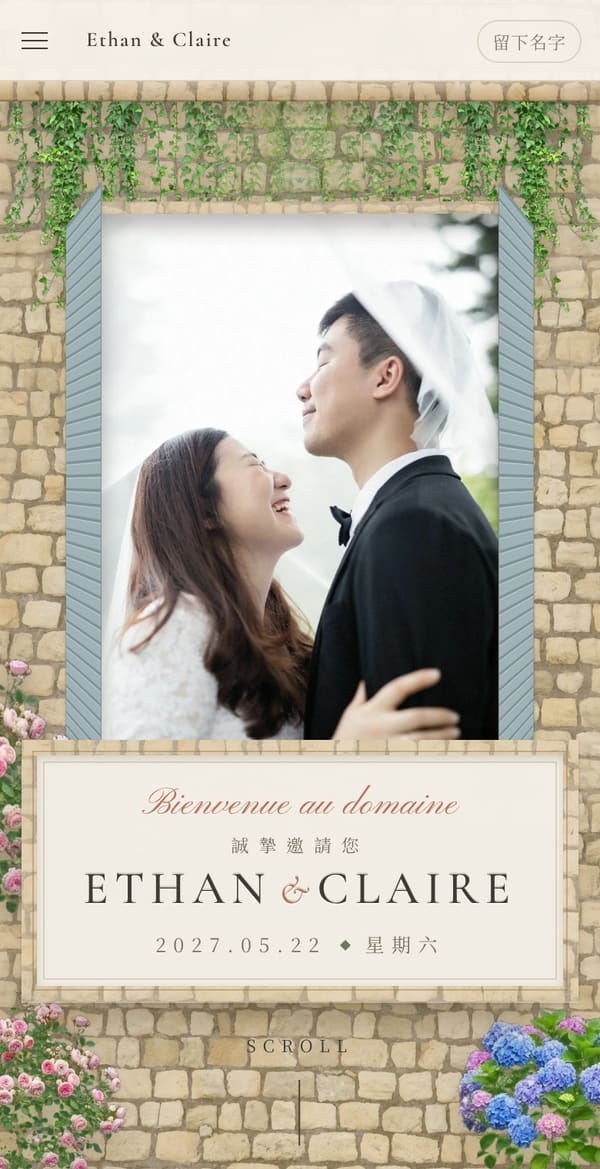
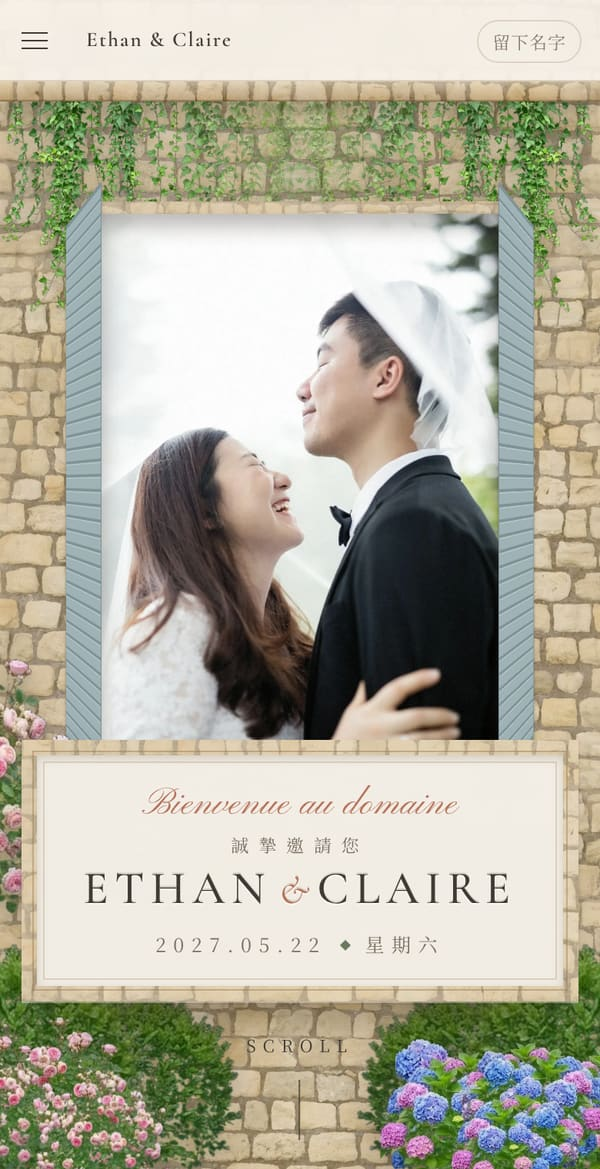
法式莊園 hero：濃密的玫瑰與繡球花叢、兩側綠籬、真的赤陶花箱，兩側窗都關上
- 玫瑰、繡球花改成幾株疊成一大叢（rose-clump、hydrangea-clump），底下墊黃楊的葉子
- 牆腳兩側加黃楊綠籬（shrub.webp），在花的後面
- 窗台下的花箱改用真的赤陶花箱照片去背（planter.webp），大廳所有窗都套用
- 右邊那扇窗的百葉窗也關上
- README 素材表同步

Claude-Session: https://claude.ai/code/session_01WAMHDvEXzDVD9sEfoDVAdb

Changed region(s): [[0.6, 0.8007, 1.0, 1.0], [0.0, 0.8007, 0.39, 1.0]]

diff --git a/public/css/lobby-manor.css b/public/css/lobby-manor.css
@@ -92,9 +92,14 @@ body[data-lobby="french-manor"] .bg-decor::after{content:'';position:absolute;in
 /* 牆腳的花（去背的真花），捲動時走得比牆快 */
 .fm-near{position:absolute;bottom:0;background:center bottom/contain no-repeat;
   filter:drop-shadow(0 10px 14px rgba(60,46,30,.28));transform:translateY(calc(var(--lp,0) * -36%));}
-.fm-near.n-hydrangea{right:-3%;height:36%;aspect-ratio:311/281;bottom:-3%;background-image:url(../img/manor/hydrangea-bush.webp);}
-.fm-near.n-rose{left:-3%;height:42%;aspect-ratio:365/396;bottom:-3%;background-image:url(../img/manor/rose-bush.webp);}
-.fm-near.n-lavender{left:clamp(90px,15vw,240px);height:18%;filter:saturate(.8) drop-shadow(0 10px 14px rgba(60,46,30,.28));aspect-ratio:398/281;bottom:-2%;background-image:url(../img/manor/lavender-bush.webp);}
+/* 玫瑰、繡球花：幾叢真花疊成一大片（rose-clump、hydrangea-clump，底下墊著黃楊的綠葉），比單獨一株濃密 */
+.fm-near.n-hydrangea{right:-4%;height:32%;aspect-ratio:838/388;bottom:-3%;background-image:url(../img/manor/hydrangea-clump.webp);}
+.fm-near.n-rose{left:-5%;height:40%;aspect-ratio:813/510;bottom:-4%;background-image:url(../img/manor/rose-clump.webp);}
+/* 牆腳的綠籬（黃楊），在花的後面，讓兩側多一點綠 */
+.fm-near.n-shrub{height:54%;aspect-ratio:763/413;bottom:-3%;background-image:url(../img/manor/shrub.webp);filter:brightness(.92) drop-shadow(0 10px 14px rgba(60,46,30,.28));}
+.fm-near.n-shrub.l{left:-12%;}
+.fm-near.n-shrub.r{right:-12%;scale:-1 1;}
+.fm-near.n-lavender{left:clamp(110px,19vw,300px);height:18%;filter:saturate(.8) drop-shadow(0 10px 14px rgba(60,46,30,.28));aspect-ratio:398/281;bottom:-2%;background-image:url(../img/manor/lavender-bush.webp);}
 
 .fm-hero-body{position:relative;z-index:5;display:flex;flex-direction:column;align-items:center;text-align:center;
   padding:clamp(20px,5vh,56px) 20px clamp(56px,9vh,90px);transform:translateY(calc(var(--lp,0) * -40px));opacity:calc(1 - var(--lp,0) * 1.4);}
@@ -138,8 +143,11 @@ body[data-hero-name="cn"] .fm-hero .fm-names{font-family:'Noto Serif TC',serif;f
 @keyframes fm-rise{from{opacity:0;transform:translateY(14px);}}
 @keyframes fm-rise-far{from{opacity:0;transform:translateY(40px);}}
 @media (max-width:640px){
-  .fm-near.n-hydrangea{height:18%;right:-12%;}
-  .fm-near.n-rose{height:20%;left:-12%;}
+  .fm-near.n-hydrangea{height:15%;right:-22%;}
+  .fm-near.n-rose{height:18%;left:-24%;}
+  .fm-near.n-shrub{height:24%;}
+  .fm-near.n-shrub.l{left:-40%;}
+  .fm-near.n-shrub.r{right:-40%;}
   .fm-near.n-lavender{display:none;}
   /* 手機：新人那扇窗已經佔滿寬度，別人家的窗放不下（只露一條邊反而怪），收起來 */
   .fm-window.fm-side-window{display:none;}
@@ -191,10 +199,10 @@ body[data-hero-name="cn"] .fm-hero .fm-names{font-family:'Noto Serif TC',serif;f
 .fm-box,.fm-climb{position:absolute;z-index:3;pointer-events:none;background:center bottom/contain no-repeat;
   filter:drop-shadow(0 6px 6px rgba(40,30,15,.35));}
 .fm-box{left:-14%;right:-14%;bottom:-30%;height:30%;z-index:1;}
-/* 赤陶花箱：掛在窗台下，花種在裡面（蓋住花的根部） */
-.fm-box::after{content:'';position:absolute;left:20%;right:20%;bottom:8%;height:30%;border-radius:2px 2px 6px 6px;
-  background:linear-gradient(180deg,#c98663,#a8603f 55%,#8d4e33),#b26a48;
-  box-shadow:inset 0 2px 0 rgba(255,220,190,.35),inset 0 -3px 6px rgba(60,25,10,.35),0 8px 10px -4px rgba(40,25,10,.45);}
+/* 赤陶花箱（真的花箱照片，去背）：掛在窗台下，花種在裡面，箱口蓋住花的根部 */
+.fm-box::after{content:'';position:absolute;left:28%;right:28%;top:50%;aspect-ratio:754/278;
+  background:url(../img/manor/planter.webp) center/100% 100% no-repeat;
+  filter:drop-shadow(0 8px 8px rgba(40,25,10,.35));}
 .fm-box.b-lavender{background-image:url(../img/manor/lavender-bush.webp);}
 .fm-box.b-hydrangea{background-image:url(../img/manor/hydrangea-bush.webp);height:34%;bottom:-34%;}
 .fm-climb{bottom:-34%;width:74%;height:72%;}

diff --git a/preview/french-manor.html b/preview/french-manor.html
@@ -83,12 +83,14 @@
     <header class="lobby-hero fm-hero" data-scroll>
       <div class="fm-scene" aria-hidden="true">
         <!-- 跟整頁同一面石灰岩牆：兩個上角各垂下一片常春藤，牆上左右各一扇別人家的窗
-             （左邊百葉窗關著、右邊開著，看得到玻璃裡的蕾絲窗簾），窗台下掛著花箱；
-             牆腳左邊一叢玫瑰和薰衣草、右邊一叢繡球花，捲動時走得比牆快 -->
+             （百葉窗都關著），窗台下掛著赤陶花箱；牆腳兩側是一片黃楊綠籬，
+             前面左邊一大叢玫瑰和薰衣草、右邊一大叢繡球花，捲動時走得比牆快 -->
         <i class="fm-ivy fm-ivy-corner l"></i>
         <i class="fm-ivy fm-ivy-corner r"></i>
         <figure class="fm-window fm-side-window l"><div class="fm-window-ph fm-glass"></div><i class="fm-shutter l is-shut"></i><i class="fm-shutter r is-shut"></i><i class="fm-sill"></i><i class="fm-box b-hydrangea"></i></figure>
-        <figure class="fm-window fm-side-window r"><i class="fm-shutter l"></i><div class="fm-window-ph fm-glass"></div><i class="fm-shutter r"></i><i class="fm-sill"></i><i class="fm-box b-sage"></i></figure>
+        <figure class="fm-window fm-side-window r"><div class="fm-window-ph fm-glass"></div><i class="fm-shutter l is-shut"></i><i class="fm-shutter r is-shut"></i><i class="fm-sill"></i><i class="fm-box b-sage"></i></figure>
+        <i class="fm-near n-shrub l"></i>
+        <i class="fm-near n-shrub r"></i>
         <i class="fm-near n-rose"></i>
         <i class="fm-near n-lavender"></i>
         <i class="fm-near n-hydrangea"></i>

diff --git a/public/lobby-manor.html b/public/lobby-manor.html
@@ -92,12 +92,14 @@
     <header class="lobby-hero fm-hero" data-scroll>
       <div class="fm-scene" aria-hidden="true">
         <!-- 跟整頁同一面石灰岩牆：兩個上角各垂下一片常春藤，牆上左右各一扇別人家的窗
-             （左邊百葉窗關著、右邊開著，看得到玻璃裡的蕾絲窗簾），窗台下掛著花箱；
-             牆腳左邊一叢玫瑰和薰衣草、右邊一叢繡球花，捲動時走得比牆快 -->
+             （百葉窗都關著），窗台下掛著赤陶花箱；牆腳兩側是一片黃楊綠籬，
+             前面左邊一大叢玫瑰和薰衣草、右邊一大叢繡球花，捲動時走得比牆快 -->
         <i class="fm-ivy fm-ivy-corner l"></i>
         <i class="fm-ivy fm-ivy-corner r"></i>
         <figure class="fm-window fm-side-window l"><div class="fm-window-ph fm-glass"></div><i class="fm-shutter l is-shut"></i><i class="fm-shutter r is-shut"></i><i class="fm-sill"></i><i class="fm-box b-hydrangea"></i></figure>
-        <figure class="fm-window fm-side-window r"><i class="fm-shutter l"></i><div class="fm-window-ph fm-glass"></div><i class="fm-shutter r"></i><i class="fm-sill"></i><i class="fm-box b-sage"></i></figure>
+        <figure class="fm-window fm-side-window r"><div class="fm-window-ph fm-glass"></div><i class="fm-shutter l is-shut"></i><i class="fm-shutter r is-shut"></i><i class="fm-sill"></i><i class="fm-box b-sage"></i></figure>
+        <i class="fm-near n-shrub l"></i>
+        <i class="fm-near n-shrub r"></i>
         <i class="fm-near n-rose"></i>
         <i class="fm-near n-lavender"></i>
         <i class="fm-near n-hydrangea"></i>

diff --git a/README.md b/README.md
@@ -324,6 +324,8 @@ HTML 裡直接寫 `{{couple}}`、`{{date}}`、`{{hashtag}}` 這類 token，
 > |---|---|---|---|
 > | `manor/door-scene.webp`、`manor/door-leaf.webp` | 開場：南法小鎮街角，石灰岩牆上一扇灰藍的木門 | [石屋上一扇質樸的藍色木門](https://unsplash.com/photos/VJBz5nvw0j0)・eliza cemme | 裁掉上緣的三角旗；門板依顏色量出範圍，切成自己的一層（door-leaf，可以推開），門洞在 door-scene 裡挖成透明 |
 > | `manor/manor.webp` | 開場：木門推開後，門後看到的那一座莊園 | [前庭有修剪整齊樹木的莊園](https://unsplash.com/photos/aYA0TKXxcyw)・Shalev Cohen | 縮圖 |
+> | `manor/planter.webp` | 每扇窗台下掛的赤陶花箱 | [石窗台上種著紅花的赤陶花箱](https://unsplash.com/photos/jS6GarvvITw)・atelierbyvineeth | 只取花箱本體：沿著箱子的外形去背，箱口垂下來的那片金蓮花葉用旁邊的陶面補掉 |
+> | `manor/rose-clump.webp`、`manor/hydrangea-clump.webp`、`manor/shrub.webp` | hero 牆腳的一大叢玫瑰、一大叢繡球花、兩側的黃楊綠籬 | 用下面新人提供的 `rose-bush`、`hydrangea-bush`、`hydrangea-stem`、`boxwood` 拼成 | 幾株疊在一起（左右翻、大小不同），底下墊黃楊的葉子，比單獨一株濃密 |
 > | `manor/arch-door.webp` | 「我們的故事」的背景 | [灰泥牆上的石拱門與壁燈](https://unsplash.com/photos/UpfOIuFOelI)・Lea Gindorf | 縮圖 |
 > | `manor/cottage.webp` | 倒數的背景 | [開滿玫瑰、有百葉窗的石屋](https://unsplash.com/photos/qs6RGMBaetQ)・Erwan Hesry | 縮圖、調亮、降一點彩度 |
 > | `manor/wall.webp` | 整頁的底：蜂蜜色的小石塊石灰岩牆、灰泥面板與窗的石框 | [小石塊砌成的石牆](https://unsplash.com/photos/ntNwMS0fWGk)・Angelo Casto | 顏色對齊 mood board 的石牆（每個色板的平均與對比）；錯位半張再淡淡混合，做成可以無縫平鋪的一塊 |
